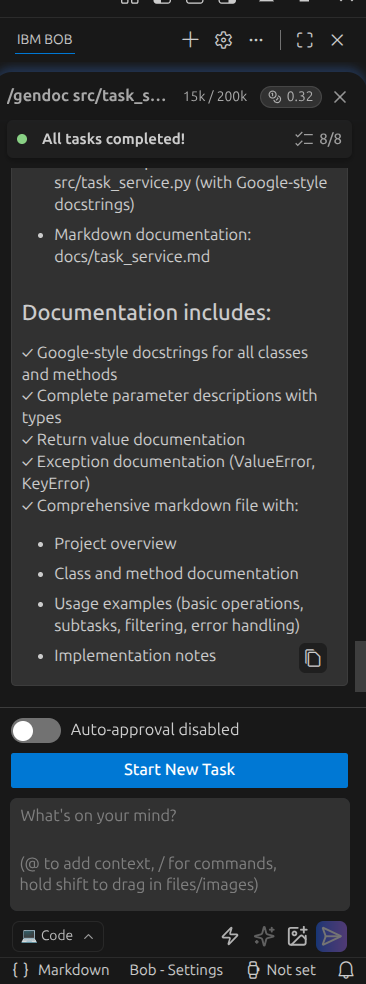
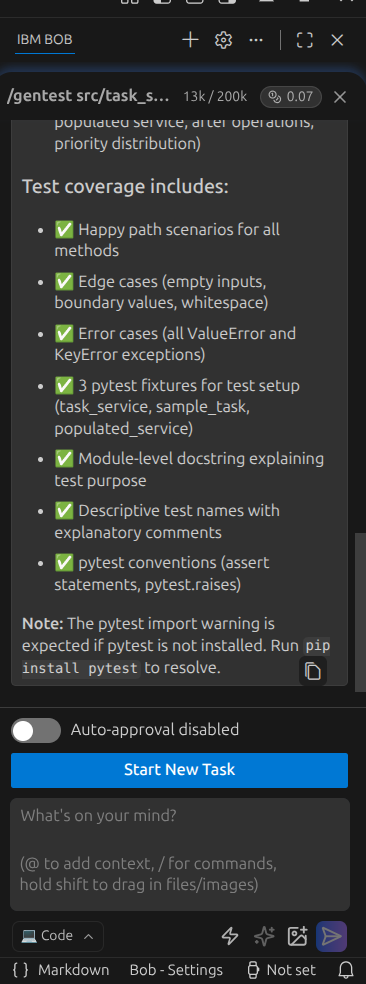
demo: show sync detecting stale docs after signature change

diff --git a/src/task_service.py b/src/task_service.py
@@ -48,7 +48,8 @@ class TaskService:
         self.tasks = {}
         self._next_id = 1
 
-    def create_task(self, title, description="", priority="medium"):
+    # STALE: function signature changed - added due_date and tags parameters but docstring not updated
+    def create_task(self, title, description="",     priority="medium", due_date=None, tags=None):
         """Create a new task and add it to the service.
         
         Args:

diff --git a/bob_sessions/gentest-output.md b/bob_sessions/gentest-output.md
@@ -1,34 +1,32 @@
-Documentation generation complete for src/task_service.py!
+✅ Test file generated successfully: **tests/test_task_service.py**
 
 ## Summary
 
-**Classes documented:** 2
-- Task
-- TaskService
+**Total test functions generated: 68**
 
-**Methods/functions documented:** 10
-- Task.__init__
-- TaskService.__init__
-- TaskService.create_task
-- TaskService.get_task
-- TaskService.complete_task
-- TaskService.update_priority
-- TaskService.add_subtask
-- TaskService.delete_task
-- TaskService.list_tasks
-- TaskService.get_stats
+### Coverage breakdown:
 
-**Generated files:**
-- Source file updated: src/task_service.py (with Google-style docstrings)
-- Markdown documentation: docs/task_service.md
+**Task class (2 functions):**
+- ✅ `__init__` - 3 tests (all parameters, minimal parameters, string ID)
 
-## Documentation includes:
-✓ Google-style docstrings for all classes and methods
-✓ Complete parameter descriptions with types
-✓ Return value documentation
-✓ Exception documentation (ValueError, KeyError)
-✓ Comprehensive markdown file with:
-  - Project overview
-  - Class and method documentation
-  - Usage examples (basic operations, subtasks, filtering, error handling)
-  - Implementation notes
+**TaskService class (10 methods):**
+- ✅ `__init__` - 1 test
+- ✅ `create_task` - 9 tests (happy path, whitespace handling, ID increment, empty/invalid inputs)
+- ✅ `get_task` - 3 tests (success, nonexistent ID, empty service)
+- ✅ `complete_task` - 4 tests (success, already completed, nonexistent task)
+- ✅ `update_priority` - 5 tests (all priority levels, invalid priority, nonexistent task)
+- ✅ `add_subtask` - 7 tests (ID generation, multiple subtasks, whitespace, empty title, nonexistent parent)
+- ✅ `delete_task` - 4 tests (success, nonexistent task, empty service, multiple deletions)
+- ✅ `list_tasks` - 9 tests (no filters, priority filters, completion filters, combined filters, no matches)
+- ✅ `get_stats` - 7 tests (empty service, populated service, after operations, priority distribution)
+
+### Test coverage includes:
+- ✅ Happy path scenarios for all methods
+- ✅ Edge cases (empty inputs, boundary values, whitespace)
+- ✅ Error cases (all ValueError and KeyError exceptions)
+- ✅ 3 pytest fixtures for test setup (task_service, sample_task, populated_service)
+- ✅ Module-level docstring explaining test purpose
+- ✅ Descriptive test names with explanatory comments
+- ✅ pytest conventions (assert statements, pytest.raises)
+
+**Note:** The pytest import warning is expected if pytest is not installed. Run `pip install pytest` to resolve.

diff --git a/bob_sessions/gendoc-output.md b/bob_sessions/gendoc-output.md
@@ -1,0 +1,34 @@
+Documentation generation complete for src/task_service.py!
+
+## Summary
+
+**Classes documented:** 2
+- Task
+- TaskService
+
+**Methods/functions documented:** 10
+- Task.__init__
+- TaskService.__init__
+- TaskService.create_task
+- TaskService.get_task
+- TaskService.complete_task
+- TaskService.update_priority
+- TaskService.add_subtask
+- TaskService.delete_task
+- TaskService.list_tasks
+- TaskService.get_stats
+
+**Generated files:**
+- Source file updated: src/task_service.py (with Google-style docstrings)
+- Markdown documentation: docs/task_service.md
+
+## Documentation includes:
+✓ Google-style docstrings for all classes and methods
+✓ Complete parameter descriptions with types
+✓ Return value documentation
+✓ Exception documentation (ValueError, KeyError)
+✓ Comprehensive markdown file with:
+  - Project overview
+  - Class and method documentation
+  - Usage examples (basic operations, subtasks, filtering, error handling)
+  - Implementation notes

diff --git a/bob_sessions/sync-output.md b/bob_sessions/sync-output.md
@@ -1,0 +1,28 @@
+## Sync Report for src/task_service.py
+
+**Total functions/classes scanned:** 11
+- Task class: 1 method (__init__)
+- TaskService class: 9 methods (__init__, create_task, get_task, complete_task, update_priority, add_subtask, delete_task, list_tasks, get_stats)
+
+**Stale items found:** 1
+
+### Stale Item Details:
+
+1. **File:** src/task_service.py  
+   **Line:** 51  
+   **Function:** TaskService.create_task  
+   **Reason:** Function signature changed - added `due_date` and `tags` parameters but docstring not updated
+   
+   **Details:**
+   - Current signature includes `due_date=None` and `tags=None` parameters
+   - Docstring only documents `title`, `description`, and `priority`
+   - Documentation file (docs/task_service.md) does not mention these new parameters
+   - No tests exist for these new parameters in tests/test_task_service.py
+
+**Action taken:** Added `# STALE:` comment above the function definition to flag this issue.
+
+**Recommendations:**
+1. Update the docstring to document `due_date` and `tags` parameters
+2. Update docs/task_service.md to reflect the new parameters
+3. Add tests for the new parameters in tests/test_task_service.py
+4. Implement the actual functionality for these parameters (currently they're accepted but not used)